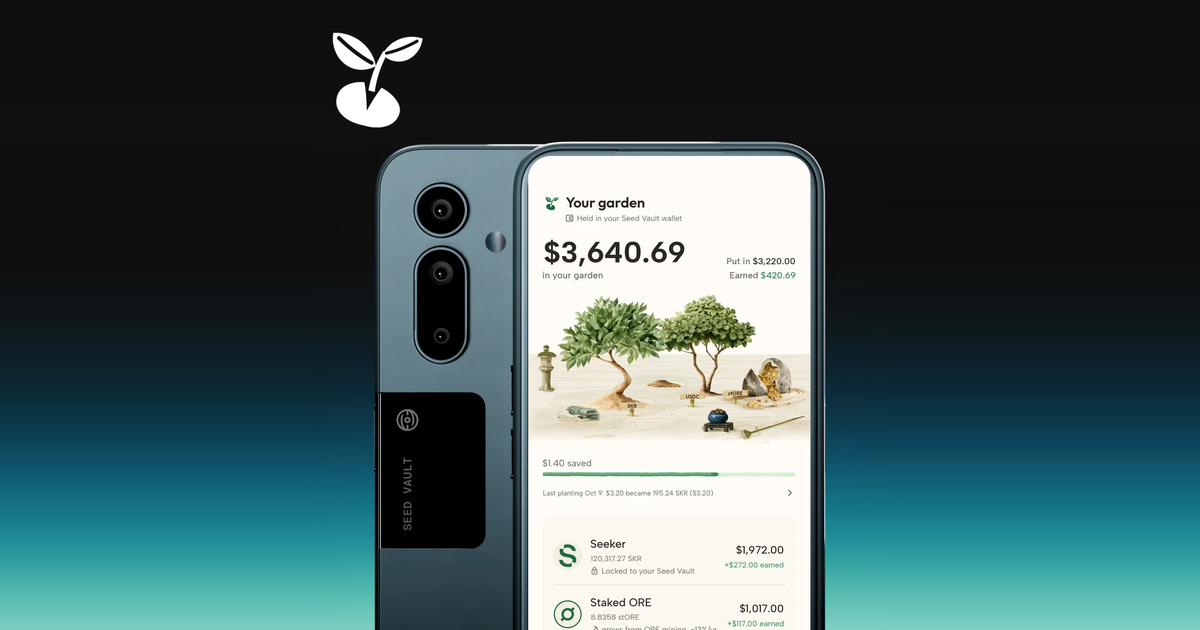
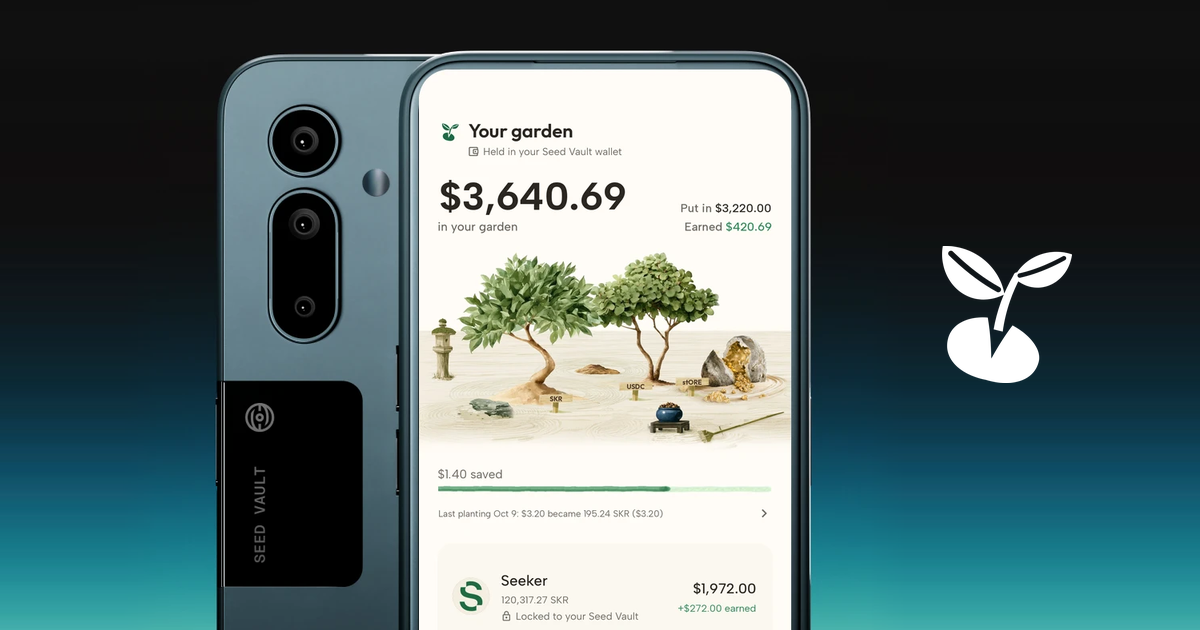
site: X card with the phone ~30% bigger and the mark right of it (builder brand/x-profile/build_x_card.py); image URL v=1021b

diff --git a/api/src/app/metadata.ts b/api/src/app/metadata.ts
@@ -20,6 +20,6 @@ export const siteMetadata: Metadata = {
     description: "Your spare change, planted on your Seeker.",
     // his pick 10-12: X crops summary_large_image to ~2:1; a landscape card keeps the phone whole. His ask 10-21: X showed the card's
     // text with no picture although the PNG serves fine; ?v= gives X's image cache a URL it has never failed on (bump it to refresh).
-    images: [{ url: "https://sprouts.money/og-card-x.png?v=1021", width: 1200, height: 630, alt: "Sprouts on a Seeker: the garden home screen" }],
+    images: [{ url: "https://sprouts.money/og-card-x.png?v=1021b", width: 1200, height: 630, alt: "Sprouts on a Seeker: the garden home screen" }],
   },
 };
